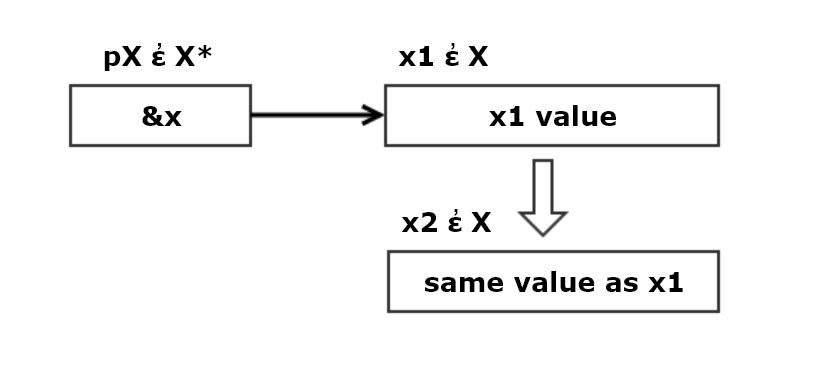
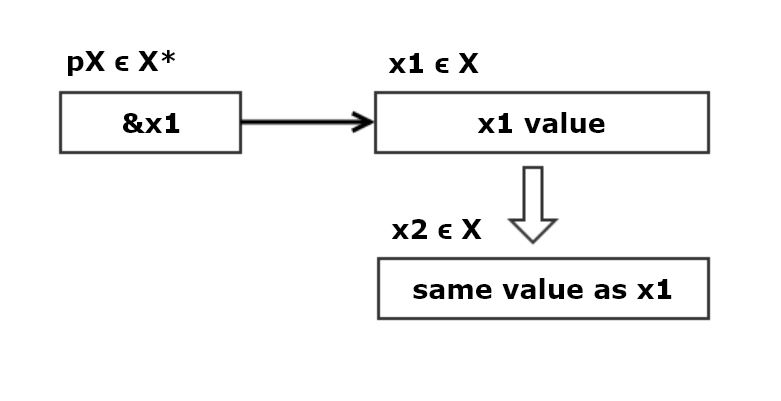
added and modified content for CppStory_Survey.html

Changed region(s): [[0.0615, 0.117, 0.9219, 0.8484]]

diff --git a/CppStory_Survey.html b/CppStory_Survey.html
@@ -89,6 +89,17 @@
         font-size: 1.0em;
         font-family: Tahoma;
       }
+      c-s {
+        overflow:hidden;
+        font-family: Consolas, monospace;
+        font-weight: bold;
+        font-size: 1.0em;
+      }
+      t-s {
+        font-weight: normal;
+        font-size: 1.0em;
+        font-family: Tahoma;
+      }
   </style>
 </head>
 <body id="github" onload="initializeMenu()">
@@ -182,6 +193,78 @@
                 </indent-block>
               </indent-block>
             </div>
+          </details>
+        </indent-block>
+        Arrays, pointers, and references:
+        <indent-block class="pad10">
+          <details>
+            <summary>
+              <span class="labelStyle lightItem">arrays</span>
+            </summary>
+            <indent-block class="pad10 codeStyle">
+              An array is a fixed size sequence of continguous elements, all of the same type.
+              <spacer-10></spacer-10>
+              T&nbsp;arr[N]; T&nbsp;t&nbsp;=&nbsp;arr[1];
+              <spacer-10></spacer-10>
+              <div class="normal">
+                <c-s>T</c-s> is any default constructable C++ type,
+                <c-s>N</c-s> is a compile-time constant.
+                <c-s>t</c-s> contains the value of the second element
+                of the array, <c-s>arr</c-s>
+              </div>
+            </indent-block>
+          </details>
+          <spacer-15></spacer-15>
+          <details>
+            <summary>
+              <span class="labelStyle lightItem">pointers</span>
+            </summary>
+            <indent-block style="width:95%;">
+              <hidephotosizer-block src="Pictures/PointerImage1.JPG" width="300" class="photoSizerBlock right" style="margin-top:0;">
+                <span style="font-family:'Comic Sans MS, Tahoma';">
+                  Fig 1. Pointer to x &epsilon; X
+                </span>
+              </hidephotosizer-block>
+              <spacer-15></spacer-15>
+              <c-s>
+                X x;<br />
+                X* pX = &amp;x;
+              </c-s>
+              <spacer-10></spacer-10>
+              <c-s>pX</c-s> is a pointer variable containing the address of <c-s>x</c-s>
+              <spacer-10></spacer-10>
+              <c-s>++pX</c-s> increments address stored in pX by <c-s>sizeof(X)</c-s>
+              <spacer-10></spacer-10>
+              Retrieve the value referenced by pX using the dereference operator: 
+              <c-s>*pX</c-s> returns the value referenced by <c-s>pX</c-s>
+            </indent-block>
+            <div class="clear"></div>
+          </details>
+          <spacer-15></spacer-15>
+          <details>
+            <summary>
+              <span class="labelStyle lightItem">
+                C++ references
+              </span>
+            </summary>
+            <indent-block class="pad10" style="width:95%;">
+              <c-s>X&amp; xr = x;</c-s>&nbsp;&nbsp;defines a reference <c-s>xr</c-s> to <c-s>x &epsilon; X</c-s>
+              <spacer-10></spacer-10>
+              Unlike pointers, C++ reference types cannot be reset.  The instance referred to, <c-s>x</c-s>,
+              is always defined in the reference declaration, <c-s>X&amp; xr = x;</c-s> and cannot be changed.
+              The value of <c-s>xr</c-s> is always the value of <c-s>x</c-s>, which can be changed.
+              <spacer-10></spacer-10>
+              It is useful to think of a reference as another name for the referenced instance.  
+              <spacer-10></spacer-10>
+              References are most often used to pass arguments to a function by reference.  
+              <spacer-10></spacer-10>
+              Passing an argument to a function by value, <c-s>f(T t)</c-s>, copies the argument&apos;s value to the function&apos;s
+              stack frame.
+              <spacer-10></spacer-10>
+              Passing a parameter by reference, <c-s>f(U&amp; u)</c-s>,
+              simply creates a reference to the parameter, in the caller&apos;s
+              scope, on the function&apos;s stack frame instead of copying what could be a large object.
+            </indent-block>
           </details>
         </indent-block>
         C++ standard libraries provide a large set of pre-defined types:
@@ -456,8 +539,7 @@
             <indent-block class="pad10 codeStyle" style="width:95%;">
               <hidephotosizer-block src="Pictures/PointerImage.JPG" width="300" class="photoSizerBlock right" style="margin-top:0;">
                 <span style="font-family:'Comic Sans MS, Tahoma';">
-                  <br />
-                  Fig 1. Pointer to u &epsilon; U
+                  Fig 2. Pointer to x &epsilon; X
                 </span>
               </hidephotosizer-block>
               <spacer-15></spacer-15>

diff --git a/js/ScriptsWebComponents.js b/js/ScriptsWebComponents.js
@@ -39,6 +39,7 @@ class HideablePhotoSizerBlock extends HTMLElement {
                 #closer {
                   text-align:center;
                   font-family:'Comic Sans MS', Sans-serif; 
+                  font-size:0.9em;
                   background-color:#ddd;
                 }
                 #caption {
